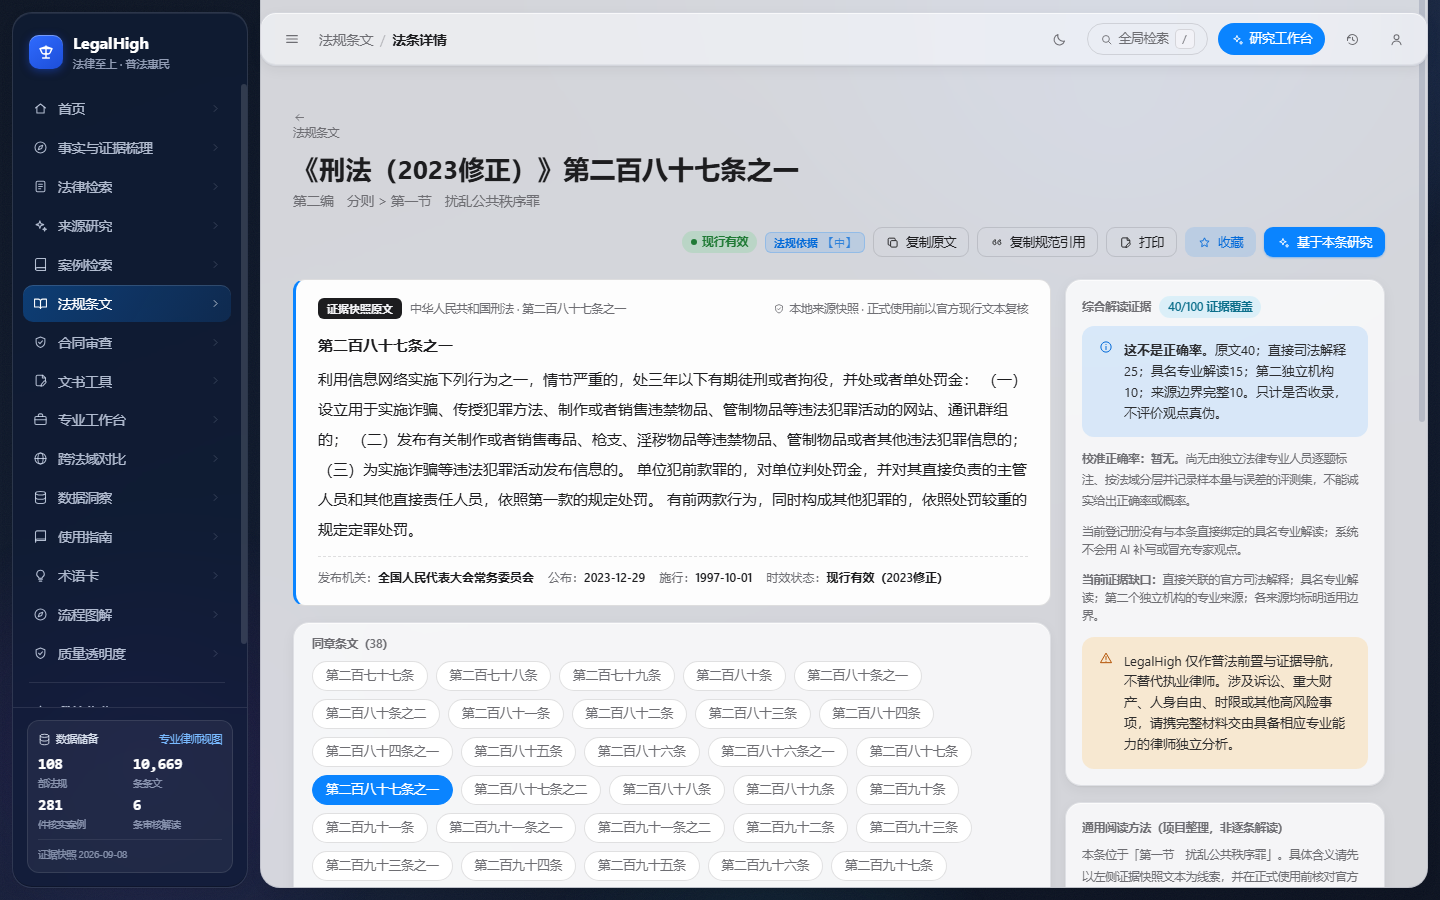
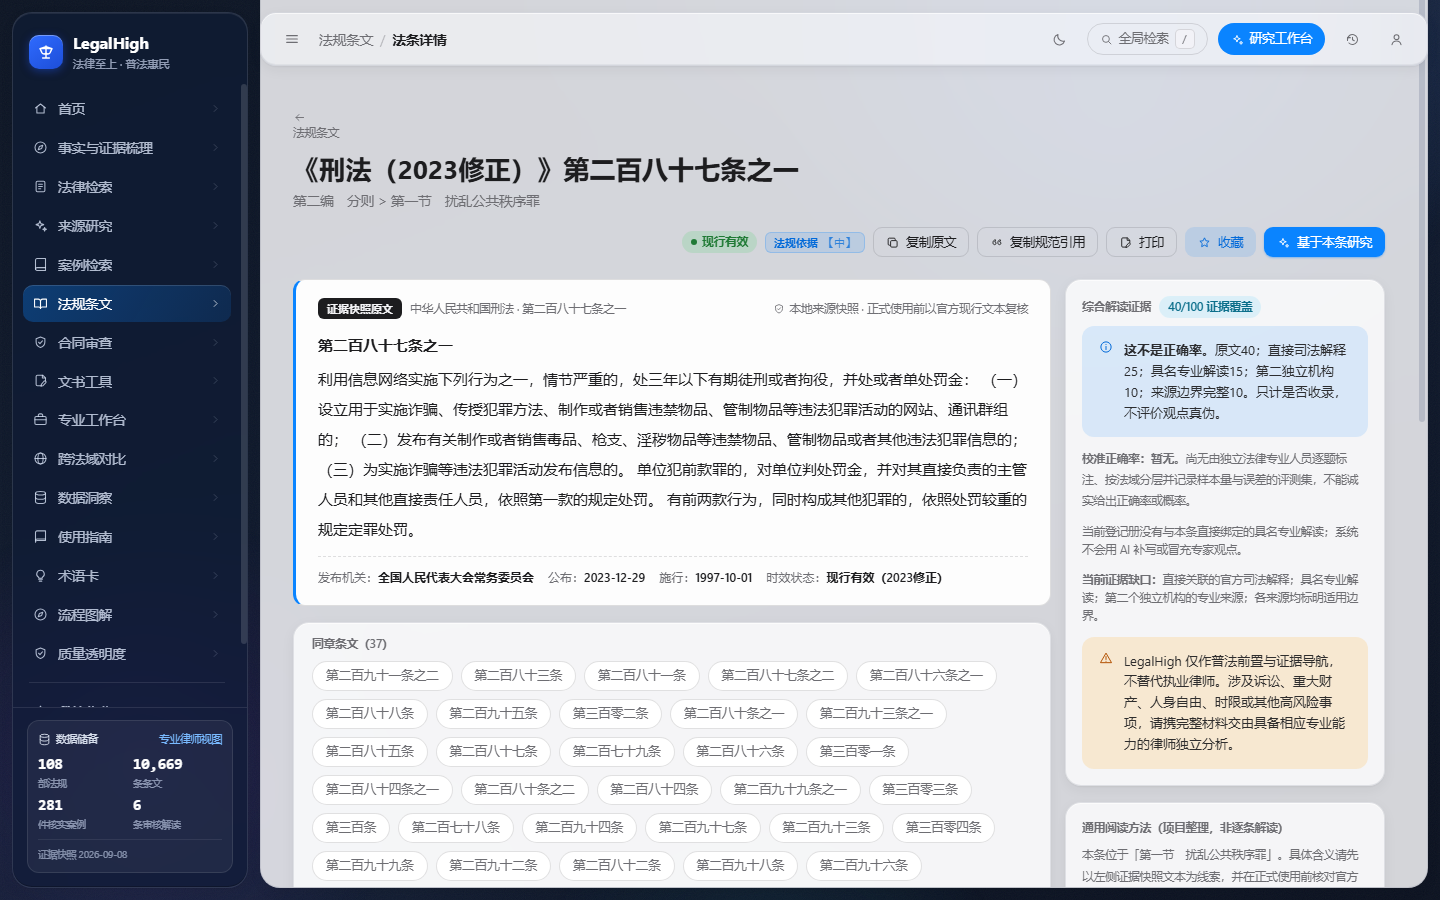
feat(web): 同章条文按词面相似度排序——bigram 重合度（R331：查看民法典188条时第193条「法院不得主动适用诉讼时效」排首位而非按条号排序）

Changed region(s): [[0.2188, 0.84, 0.6875, 0.9644], [0.2812, 0.7467, 0.6562, 0.84]]

diff --git a/web/src/components/pages/LawDetail.tsx b/web/src/components/pages/LawDetail.tsx
@@ -86,10 +86,27 @@ export default function LawDetail() {
   useEffect(() => { setFavState(lawId ? isFavKey(`law:${lawId}#${no}`) : false) }, [lawId, no])
 
   const chapters = useMemo(() => (law ? lawChapters(law) : []), [law])
-  const sibling = useMemo(
-    () => (law && article ? law.articles.filter((a) => a.chapter === article.chapter) : []),
-    [law, article],
-  )
+  // 同章条文按词面相似度排序（R331：bigram 重合度，当前条文排首位，其余按相关度递减）
+  const sibling = useMemo(() => {
+    if (!law || !article) return []
+    const same = law.articles.filter((a) => a.chapter === article.chapter)
+    const bg = (t: string) => {
+      const clean = [...t].filter((ch) => /\w/.test(ch) || ch >= '\u4e00').join('')
+      return new Set(Array.from({ length: Math.max(0, clean.length - 1) }, (_, i) => clean.slice(i, i + 2)))
+    }
+    const curBg = bg(article.text)
+    const curKey = `${article.no}-${article.sub ?? ''}`
+    return same
+      .filter((a) => `${a.no}-${a.sub ?? ''}` !== curKey)
+      .map((a) => {
+        const b = bg(a.text)
+        let inter = 0
+        for (const g of b) if (curBg.has(g)) inter++
+        return { a, score: inter / Math.max(1, Math.min(curBg.size, b.size)) }
+      })
+      .sort((x, y) => y.score - x.score || x.a.no - y.a.no)
+      .map((x) => x.a)
+  }, [law, article])
   const [cited, setCited] = useState<Awaited<ReturnType<typeof api.citedBy>> | null>(null)
   const [ftVid, setFtVid] = useState<string | null>(null)
   const [fulltext, setFulltext] = useState<Awaited<ReturnType<typeof api.versionFulltext>> | null>(null)
